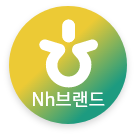
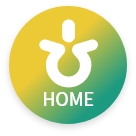
[Changed] menu postions

Changed region(s): [[0.2353, 0.6471, 0.7941, 0.7941]]

diff --git a/components/BottomButtons.tsx b/components/BottomButtons.tsx
@@ -20,9 +20,11 @@ const BottomButtons = () => {
     return (
       <ExtraContainer>
         <Container>
-          <ButtonContainer onPress={() => RootNavigation.navigate("Home")}>
-            <Image source={require("../assets/images/home_icon.png")} />
-            <IconText>홈</IconText>
+          <ButtonContainer
+            onPress={() => RootNavigation.navigate("StoreChange")}
+          >
+            <Image source={require("../assets/images/g23.png")} />
+            <IconText>매장설정</IconText>
           </ButtonContainer>
           <ButtonContainer
             onPress={async () => {
@@ -53,7 +55,7 @@ const BottomButtons = () => {
           <ButtonContainer
             onPress={async () => {
               if (await checkSetStore(dispatch, userStore)) {
-                Linking.openURL("tel:" + userStore.storeInfo.support_tel);
+                Linking.openURL("tel:" + userStore?.storeInfo?.support_tel);
               }
             }}
           >
@@ -75,7 +77,7 @@ const BottomButtons = () => {
               left: SCREEN_WIDTH / 2 - Util.normalize(23.5),
             },
           ]}
-          onPress={() => RootNavigation.navigate("RingPicker")}
+          onPress={() => RootNavigation.navigate("Home")}
         >
           <Image
             source={require("../assets/images/HANA_icon.png")}

diff --git a/components/UI/drawer/MenuList.tsx b/components/UI/drawer/MenuList.tsx
@@ -1,19 +1,16 @@
 import _ from "lodash";
 import React, { useRef, useState } from "react";
-import {
-  Animated, Image,
-  Platform, TouchableOpacity
-} from "react-native";
+import { Animated, Image, Platform, TouchableOpacity } from "react-native";
 import styled from "styled-components/native";
 import colors from "../../../constants/Colors";
 import { useAppDispatch, useAppSelector } from "../../../hooks";
 import {
-  checkAuth, checkSetStore, withdrawalFinish
+  checkAuth,
+  checkSetStore,
+  withdrawalFinish,
 } from "../../../store/actions/auth";
 import * as Util from "../../../utils";
-import {
-  BaseText, BaseTouchable
-} from "../BaseUI";
+import { BaseText, BaseTouchable } from "../BaseUI";
 
 const MenuList = (props) => {
   const dispatch = useAppDispatch();
@@ -25,13 +22,6 @@ const MenuList = (props) => {
   const [bounceValue, setBounceValue] = useState(new Animated.Value(-30));
   return (
     <MenuContainer>
-      <MenuButtonContainer>
-        <MenuButton onPress={() => props.navigation.navigate("StoreChange")}>
-          <IconImage source={require("../../../assets/images/g2.png")} />
-
-          <MenuText>매장설정</MenuText>
-        </MenuButton>
-      </MenuButtonContainer>
       <MenuButtonContainer>
         <MenuButton
           onPress={() => {
